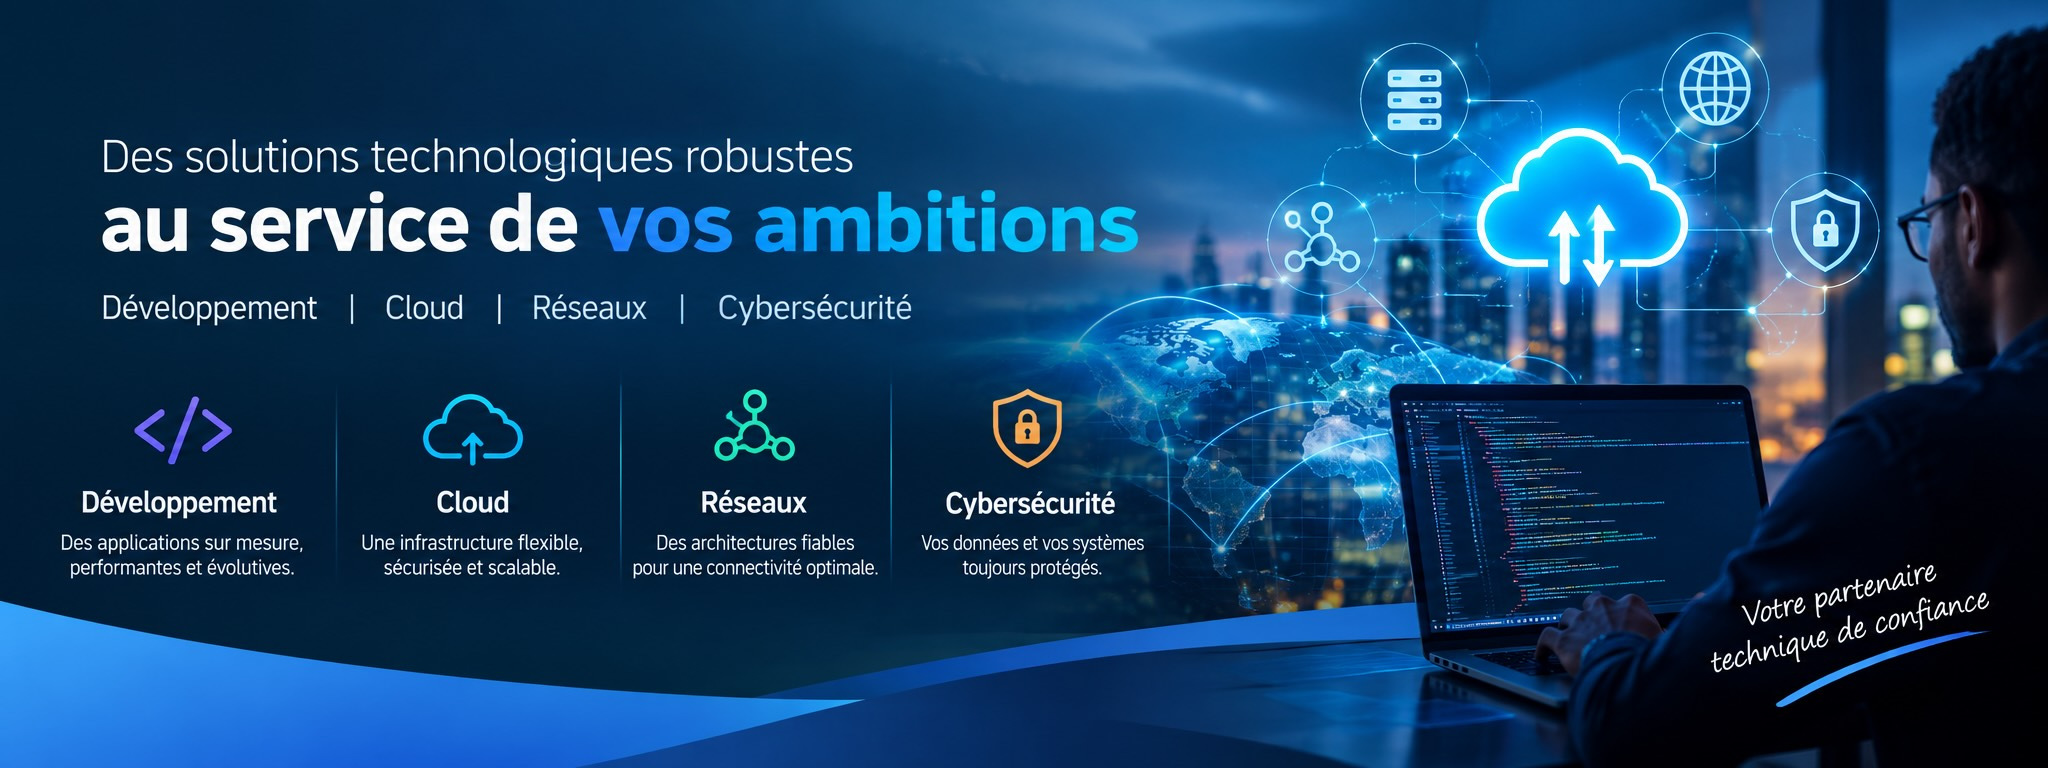
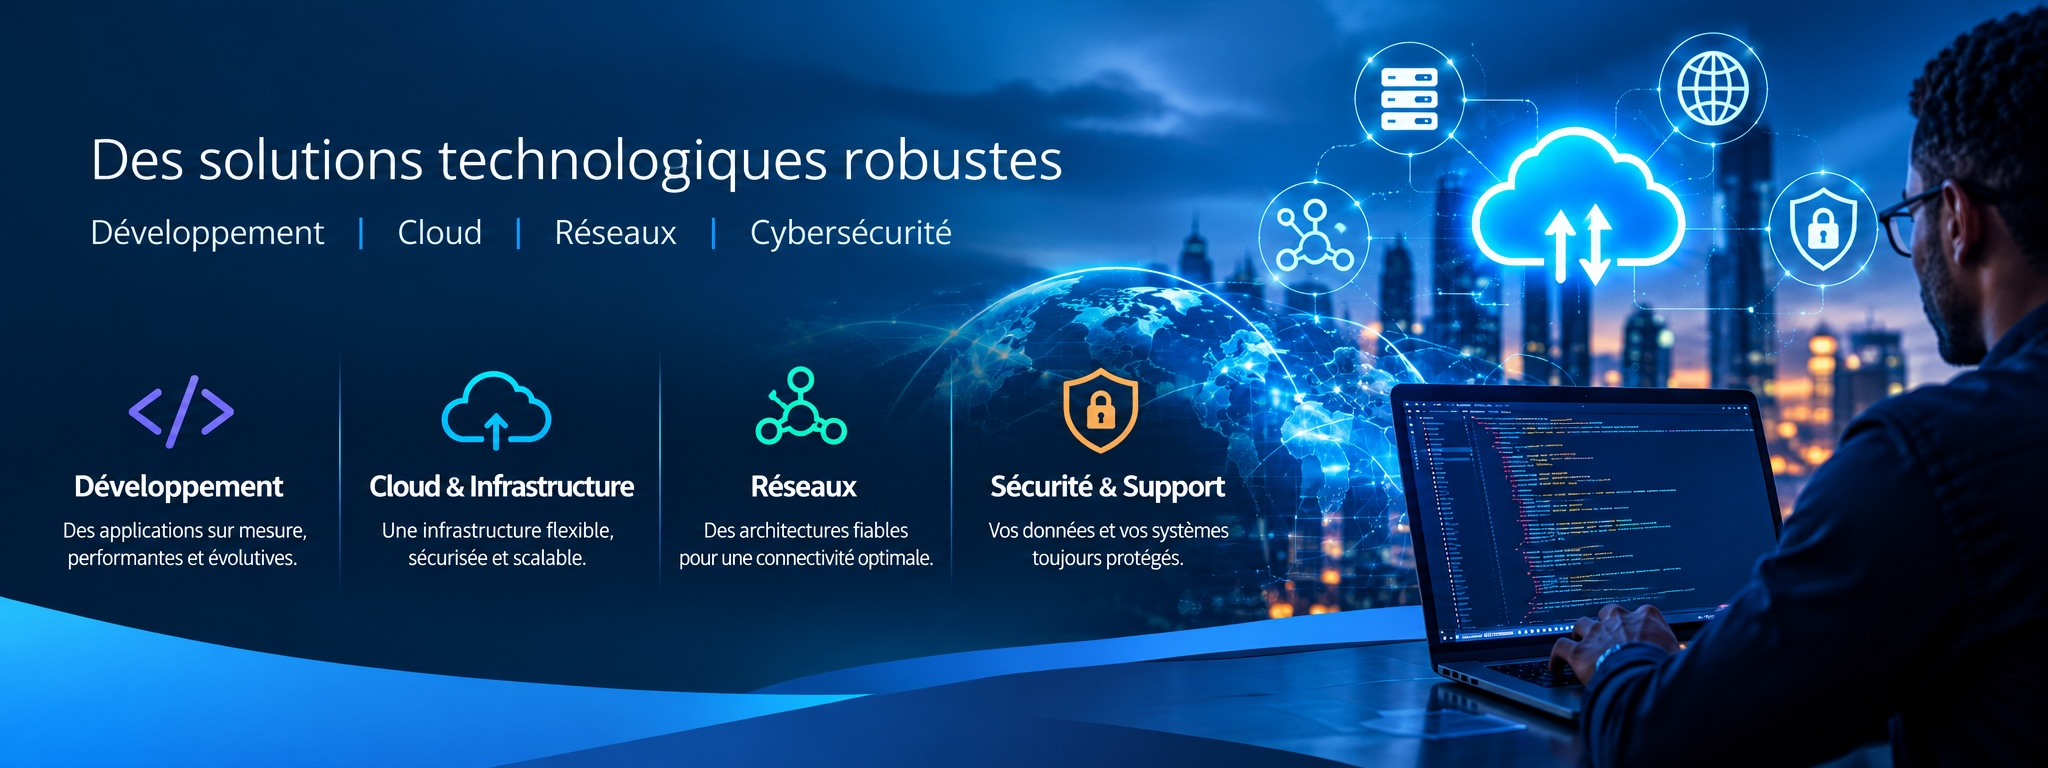
add illustation images for genie informatique

diff --git a/src/screens/GenieInformatiqueScreen.tsx b/src/screens/GenieInformatiqueScreen.tsx
@@ -17,8 +17,7 @@ export function GenieInformatiqueScreen() {
       illustrations={
           <ImageGallery
               images={[
-                  require('../assets/images/illustration-informatique.jpg'),
-                  require('../assets/images/bannier-genie-informatique.jpg')
+                  require('../assets/images/illustration-informatique.jpg')
               ]}
           />
       }
